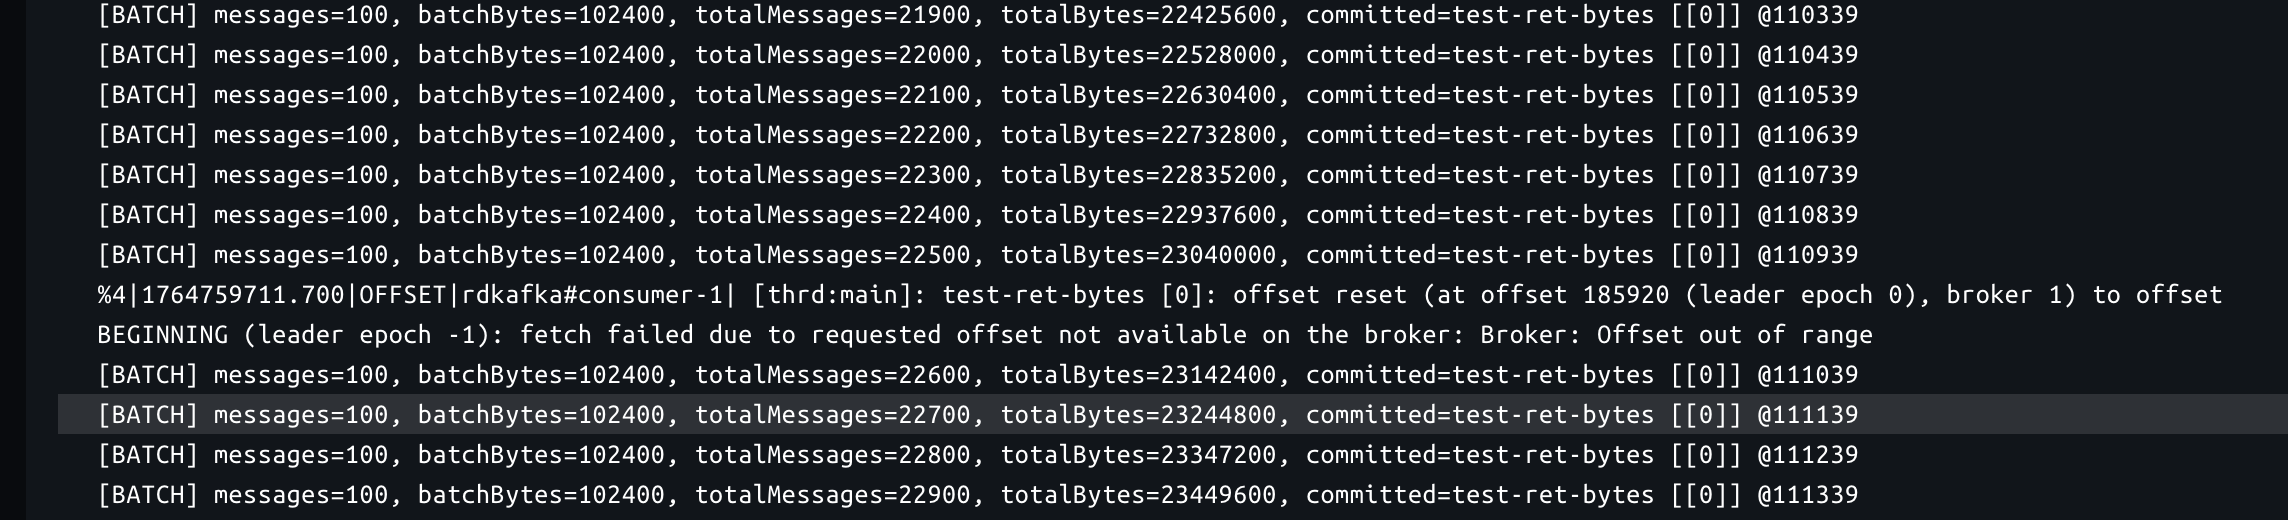
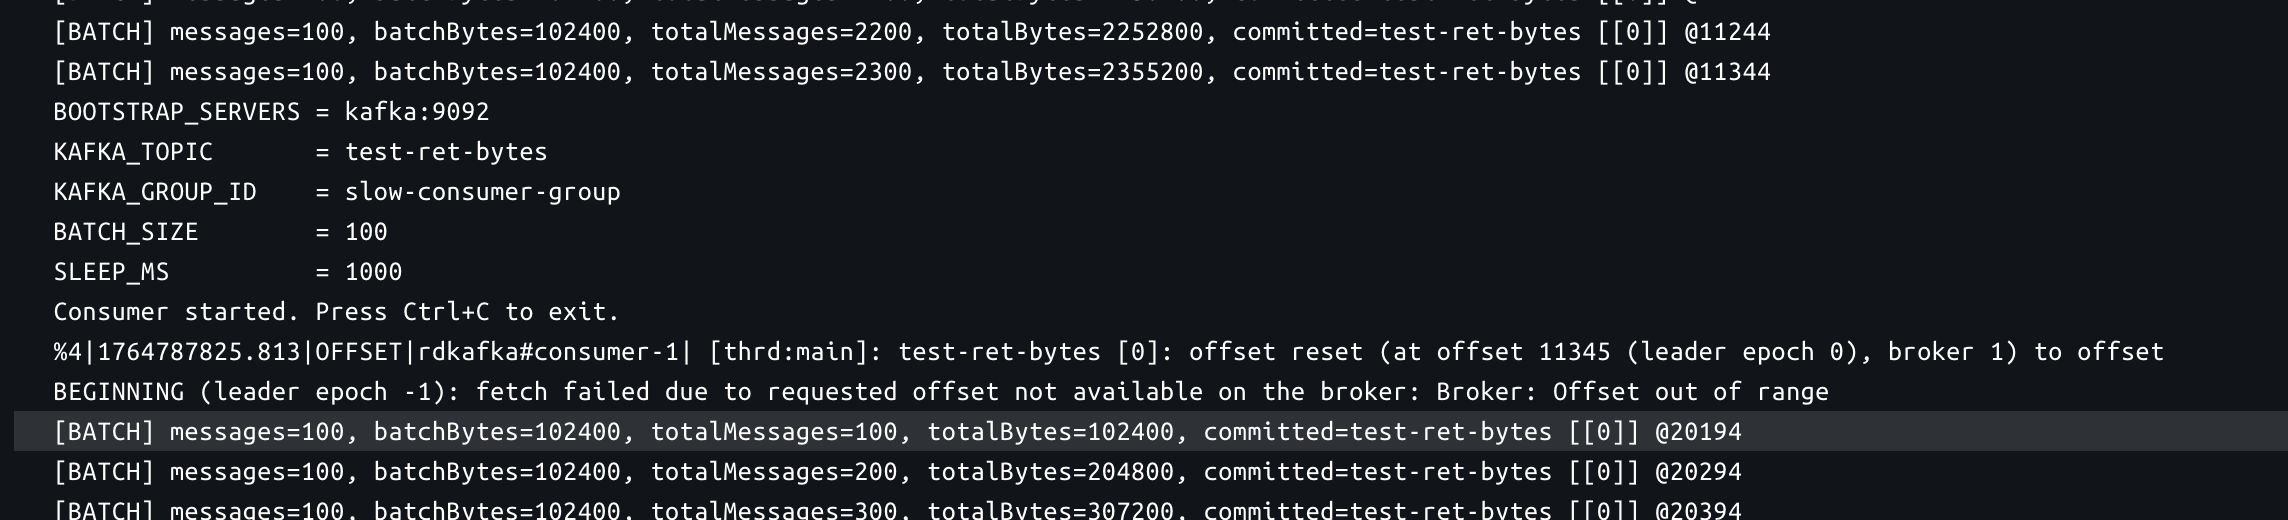
Добавил скрипт для стабильного воспроизведения

Changed region(s): [[0.0, 0.0, 1.0, 1.0]]

diff --git a/README.md b/README.md
@@ -9,7 +9,7 @@
 OFFSET|... Broker: Offset out of range
 ```
 
-Это означает, что consumer запросил оффсет, который уже удалён брокером.
+Это означает, что consumer запросил оффсет, который уже был удалён брокером.
 
 ---
 
@@ -23,44 +23,30 @@ OFFSET|... Broker: Offset out of range
 
 Скрипт:
 
-- останавливает предыдущие контейнеры
-- удаляет volumes Kafka
-- пересобирает consumer
-- запускает Kafka
-- создаёт тестовый топик `test-ret-bytes`
-- запускает consumer в профиле `slow-consumer`
+- останавливает предыдущие контейнеры,
+- удаляет volumes Kafka,
+- пересобирает consumer,
+- запускает Kafka,
+- создаёт тестовый топик `test-ret-bytes`,
+- запускает consumer в профиле `slow-consumer`.
 
 Consumer читает медленно, что создаёт условия для удаления старых сегментов.
 
 ---
 
-### Шаг 2 — Отправка ~100MB сообщений в Kafka
+### Шаг 2 — Запуск тестового сценария
 
 ```
-./produce-messages.sh 100
+./execute-test.sh
 ```
 
-Скрипт генерирует поток данных, который:
+Скрипт выполняет следующие шаги:
 
-- быстро заполняет Kafka-сегменты,
-- вызывает их удаление из‑за `retention_bytes = 1MB`,
-- создаёт ситуацию, когда consumer остается "позади" и запрашивает недоступные оффсеты.
-
----
-
-### Шаг 3 — Поиск ошибок в логах Kafka
-
-```
-./grep-kafka-logs.sh "Offset out of range"
-```
-
-Скрипт ищет ошибки вида:
-
-```
-offset reset ... fetch failed ... Broker: Offset out of range
-```
-
-Это ключевой признак того, что retention удалил сегменты, которые читает медленный consumer.
+- записывает 10 МБ данных,
+- consumer начинает их читать пачками по 100 КБ раз в секунду,
+- скрипт ждёт 15 секунд и перезапускает consumer, чтобы сбросить внутренний кеш librdkafka,
+- записывает 1 МБ данных, чтобы consumer снова начал читать новые сообщения,
+- ждёт ошибки `Offset out of range`.
 
 ---
 
@@ -84,11 +70,11 @@ docker compose logs -f kafka
 
 Consumer управляется через переменные окружения в `docker-compose.yaml`:
 
-- `BOOTSTRAP_SERVERS` — адрес брокера
-- `KAFKA_TOPIC` — имя топика
-- `KAFKA_GROUP_ID` — consumer group
-- `BATCH_SIZE` — размер батча
-- `SLEEP_MS` — задержка между батчами
+- `BOOTSTRAP_SERVERS` — адрес брокера,
+- `KAFKA_TOPIC` — имя топика,
+- `KAFKA_GROUP_ID` — consumer group,
+- `BATCH_SIZE` — размер батча,
+- `SLEEP_MS` — задержка между батчами.
 
 Эти параметры позволяют легко регулировать скорость потребления и условия теста.
 
@@ -96,7 +82,7 @@ Consumer управляется через переменные окружени
 
 ## 6. Цель теста
 
-Если всё работает корректно, в логах Kafka должны появиться строки:
+Если всё работает корректно, в логах consumer должны появиться строки:
 
 ```
 Broker: Offset out of range
@@ -104,4 +90,4 @@ Broker: Offset out of range
 
 ![errors.png](errors.png)
 
-Это означает, что Kafka удалила сегменты быстрее, чем consumer успел их прочитать — ожидаемое поведение для тестирования retention.
+Это означает, что Kafka удалила сегменты быстрее, чем consumer успел их прочитать — ожидаемое поведение для проверки механизма retention.
